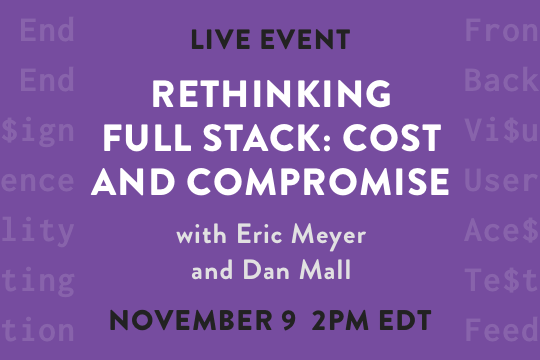
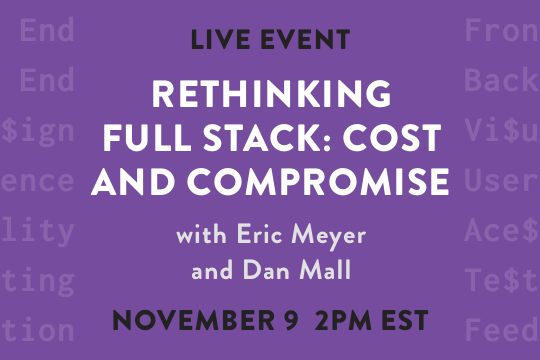
Update EDT to EST
Time change is this weekend.

Changed region(s): [[0.1778, 0.8556, 0.8, 0.9167]]

diff --git a/gym-emails/rethinking-full-stack-live-event-email/comp-guide.html b/gym-emails/rethinking-full-stack-live-event-email/comp-guide.html
@@ -5,13 +5,13 @@
 <meta http-equiv="x-ua-compatible" content="ie=edge">
 <meta name="viewport" content="width=device-width, initial-scale=1">
 <meta name="format-detection" content="telephone=no">
-<title>Hey, Have We Met Before?</title>
+<title>When the full stack just isn't enough...</title>
 <meta name="author" content="Aquent Gymnasium">
 </head>
 <body bgcolor="#ebebeb" style="width: 100%; font-family: sans-serif; font-size: 100%; background-color: #ebebeb; padding: 0; margin: 0; -ms-text-size-adjust: none; -webkit-text-size-adjust: none;">
 
 <!-- preheader text START -->
-<div class="preheader-text" style="display: none !important; font-family: sans-serif; font-size: 1px; line-height: 1px; color: #ebebeb; text-align: center; max-height: 0; max-width: 0; padding: 0; margin: 0; opacity: 0; overflow: hidden; mso-hide: all;">Free Online Courses. (Woo!)</div>
+<div class="preheader-text" style="display: none !important; font-family: sans-serif; font-size: 1px; line-height: 1px; color: #ebebeb; text-align: center; max-height: 0; max-width: 0; padding: 0; margin: 0; opacity: 0; overflow: hidden; mso-hide: all;">Webinar featuring Eric Meyer and Dan Mall.</div>
 <!-- preheader text END -->
 
 <style>
@@ -56,33 +56,30 @@ table td {padding: 0;}
           <td width="5%" style="padding: 0;"></td>
           <td width="540" align="left" valign="top" style="padding: 21px 0;">
           <h2 style="font-family: 'Helvetica Neue', Helvetica, Arial, 'Droid Sans', sans-serif; font-weight: normal; font-size: 24px; color: #222222; line-height: 28px; padding: 0; margin: 0;">Hi <span class="eloquaemail">Firstname</span>,</h2>
-          <div class="leading-11" style="font-family: Courier, monospace; font-size: 11px; line-height: 11px; padding: 0; margin: 0;"><br></div>
-          <p style="font-family: 'Helvetica Neue', Helvetica, Arial, 'Droid Sans', sans-serif; font-weight: normal; font-size: 16px; line-height: 24px; color: #222222; padding: 0; margin: 0;">We&#8217;re Aquent Gymnasium <img alt="Hello" width="32" height="32" src="https://emojipedia-us.s3.amazonaws.com/thumbs/120/apple/96/waving-hand-sign_1f44b.png" style="display: inline; vertical-align: bottom; border: 0; -ms-interpolation-mode: bicubic;"></p>
           <div class="leading-15" style="font-family: Courier, monospace; font-size: 15px; line-height: 15px; padding: 0; margin: 0;"><br></div>
-          <p style="font-family: 'Helvetica Neue', Helvetica, Arial, 'Droid Sans', sans-serif; font-weight: normal; font-size: 16px; line-height: 24px; color: #222222; padding: 0; margin: 0;">Survey results show that most Aquent / <span style="white-space: nowrap;">Vitamin T</span> talent don&#8217;t know us. <span style="white-space: nowrap;">But they</span> want to. So, allow us to reintroduce ourselves.</p>
+          <p style="font-family: 'Helvetica Neue', Helvetica, Arial, 'Droid Sans', sans-serif; font-weight: normal; font-size: 16px; line-height: 24px; color: #222222; padding: 0; margin: 0;">Join us for a webinar on the difference between front end and full stack developers, as well as the value each brings to an organization.</p>
+          <div class="leading-21" style="font-family: monospace, monospace; font-size: 21px; line-height: 21px; padding: 0; margin: 0;"><br></div>
+          <a href="https://gymnasium.github.io/cms/events/rethinking_full_stack/?utm_source=eloqua&utm_medium=email&utm_campaign=AQ_NA_GYM-webinar&utm_content=10-31-17-rethinking-full-stack" target="_blank" title="Learn More" style="display: block; text-decoration: none; cursor: pointer;">
+           <img alt="Rethinking Full Stack: Cost and Compromise" src="img/rethinking-full-stack-email-banner-540w.png" width="540" style="display: block; font-family: 'Helvetica Neue', Helvetica, Arial, 'Droid Sans', sans-serif; font-size: 26px; font-weight: bold; color: #222222; letter-spacing: 1px; text-transform: uppercase; vertical-align: middle; width: auto; max-width: 100%; height: auto; border: 1px solid #f8971d; -ms-interpolation-mode: bicubic;">
+          </a>
+          <div class="leading-21" style="font-family: monospace, monospace; font-size: 21px; line-height: 21px; padding: 0; margin: 0;"><br></div>
+          <p style="font-family: 'Helvetica Neue', Helvetica, Arial, 'Droid Sans', sans-serif; font-weight: normal; font-size: 16px; line-height: 24px; color: #222222; padding: 0; margin: 0;">Learn why hiring a one-size-fits-all developer can be a benefit, as well as a hidden cost and compromise to your company and clients.</p>
           <div class="leading-15" style="font-family: Courier, monospace; font-size: 15px; line-height: 15px; padding: 0; margin: 0;"><br></div>
-          <p style="font-family: 'Helvetica Neue', Helvetica, Arial, 'Droid Sans', sans-serif; font-weight: normal; font-size: 16px; line-height: 24px; color: #222222; padding: 0; margin: 0;">Gymnasium builds <strong stle="font-weight: bold;">free</strong> online courses taught by industry experts in the web community on web development, design, user experience, and content. Our courses are designed to empower you to learn at your <span style="white-space: nowrap;">own speed</span>.</p>
+          <p style="font-family: 'Helvetica Neue', Helvetica, Arial, 'Droid Sans', sans-serif; font-weight: normal; font-size: 16px; line-height: 24px; color: #222222; padding: 0; margin: 0;"><b style="font-weight: bold;">Eric Meyer</b>, web pioneer and author, and <b style="font-weight: bold;">Dan Mall</b>, founder and director of design collaborative SuperFriendly will join us to discuss why one size doesn&#8217;t always fit all.</p>
           <div class="leading-15" style="font-family: Courier, monospace; font-size: 15px; line-height: 15px; padding: 0; margin: 0;"><br></div>
-          <p style="font-family: 'Helvetica Neue', Helvetica, Arial, 'Droid Sans', sans-serif; font-weight: normal; font-size: 16px; line-height: 24px; color: #222222; padding: 0; margin: 0;">
-          It&#8217;s a great way to keep your skills current, or even a chance to learn something completely new!</p>
-          <div class="leading-15" style="font-family: Courier, monospace; font-size: 15px; line-height: 15px; padding: 0; margin: 0;"><br></div>
-          <p style="font-family: 'Helvetica Neue', Helvetica, Arial, 'Droid Sans', sans-serif; font-weight: normal; font-size: 16px; line-height: 24px; color: #222222; padding: 0; margin: 0;">If you&#8217;re looking to develop your portfolio, you&#8217;ll be happy to know that our course projects make a meaningful contribution. <i>We&#8217;ve heard it straight from our clients.</i></p>
-          <div class="leading-15" style="font-family: Courier, monospace; font-size: 15px; line-height: 15px; padding: 0; margin: 0;"><br></div>
-          <p style="font-family: 'Helvetica Neue', Helvetica, Arial, 'Droid Sans', sans-serif; font-weight: normal; font-size: 16px; line-height: 24px; color: #222222; padding: 0; margin: 0;">Now that we&#8217;ve officially met, we&#8217;ll be in touch about new courses, blog posts, and live events that match your interests.</p>
-          <div class="leading-15" style="font-family: Courier, monospace; font-size: 15px; line-height: 15px; padding: 0; margin: 0;"><br></div>
-          <p style="font-family: 'Helvetica Neue', Helvetica, Arial, 'Droid Sans', sans-serif; font-weight: normal; font-size: 16px; line-height: 24px; color: #222222; padding: 0; margin: 0;">In the meantime&#8230;</p>
+          <p style="font-family: 'Helvetica Neue', Helvetica, Arial, 'Droid Sans', sans-serif; font-weight: normal; font-size: 16px; line-height: 24px; color: #222222; padding: 0; margin: 0;"><b style="font-weight: bold;"><a href="https://gymnasium.github.io/cms/events/rethinking_full_stack/?utm_source=eloqua&utm_medium=email&utm_campaign=AQ_NA_GYM-webinar&utm_content=10-31-17-rethinking-full-stack" target="_blank" title="Jump In" style="color: #f8971d !important; text-decoration: underline !important;">Rethinking Full Stack: Cost and Compromise</a></b> premieres November 9 <span style="white-space: nowrap;">at 2PM EST</span>.</p>
           <table class="cta" width="100%" align="center" cellpadding="0" cellspacing="0" border="0" bgcolor="#fffffe" style="background-color: #fffffe; border-spacing: 0;">
             <tr>
               <td width="100%" align="center" valign="top" style="padding: 23px 0 21px;">
                 <table border="0" cellspacing="0" cellpadding="0" style="border-spacing: 0;">
                   <tr>
                     <td class="cta-btn" align="center" valign="top" bgcolor="#f8971d" style="background-color: #f8971d; padding: 0; border-radius: 2px;">
-                      <a href="https://thegymnasium.com/?utm_source=eloqua&utm_medium=email&utm_campaign=AQ_NA_GYM&utm_content=10-30-17-talent-reintro" title="Opportunity Awaits" target="_blank" style="display: inline-block; line-height: 19px; color: #fffffe; text-decoration: none; outline: 0; cursor: pointer;">
+                      <a href="https://gymnasium.github.io/cms/events/rethinking_full_stack/?utm_source=eloqua&utm_medium=email&utm_campaign=AQ_NA_GYM-webinar&utm_content=10-31-17-rethinking-full-stack" title="Rethinking Full Stack" target="_blank" style="display: inline-block; line-height: 19px; color: #fffffe; text-decoration: none; outline: 0; cursor: pointer;">
                         <span class="chunky-nbsp;" style="font-size: 15px; line-height: 15px; font-family: Courier, monospace; ">&nbsp;</span>
                            <div style="line-height: 16px; margin: 0 64px;">
-                            <strong style="font-weight: bold; font-size: 20px; line-height: 26px; font-family: 'Helvetica Neue', Helvetica, Arial, 'Droid Sans', sans-serif; color: #fffffe; vertical-align: 4px;">Sign Up</strong>
+                            <strong style="font-weight: bold; font-size: 20px; line-height: 26px; font-family: 'Helvetica Neue', Helvetica, Arial, 'Droid Sans', sans-serif; color: #fffffe; vertical-align: middle;">Sign Up to Attend</strong>
                           </div>
-                        <span class="chunky-nbsp;" style="font-size: 15px; line-height: 15px; font-family: Courier, monospace; ">&nbsp;</span>
+                        <span class="chunky-nbsp;" style="font-size: 21px; line-height: 21px; font-family: Courier, monospace; ">&nbsp;</span>
                       </a>
                     </td>
                   </tr>
@@ -90,7 +87,7 @@ table td {padding: 0;}
               </td>
             </tr>
           </table>
-          <p style="font-family: 'Helvetica Neue', Helvetica, Arial, 'Droid Sans', sans-serif; font-weight: normal; font-size: 16px; line-height: 24px; color: #222222; padding: 0; margin: 0;">Happy learning!</p>
+          <p style="font-family: 'Helvetica Neue', Helvetica, Arial, 'Droid Sans', sans-serif; font-weight: normal; font-size: 16px; line-height: 24px; color: #222222; padding: 0; margin: 0;">See you then!</p>
           <div class="leading-3" style="font-family: Courier, monospace; font-size: 3px; line-height: 3px; padding: 0; margin: 0;"><br></div>
           <p style="font-family: 'Helvetica Neue', Helvetica, Arial, 'Droid Sans', sans-serif; font-weight: normal; font-size: 16px; line-height: 24px; color: #222222; padding: 0; margin: 0;">&#8212;The Gymnasium Team</p>
           </td>

diff --git a/gym-emails/rethinking-full-stack-live-event-email/index.html b/gym-emails/rethinking-full-stack-live-event-email/index.html
@@ -67,7 +67,7 @@ table td {padding: 0;}
           <div class="leading-15" style="font-family: Courier, monospace; font-size: 15px; line-height: 15px; padding: 0; margin: 0;"><br></div>
           <p style="font-family: 'Helvetica Neue', Helvetica, Arial, 'Droid Sans', sans-serif; font-weight: normal; font-size: 16px; line-height: 24px; color: #222222; padding: 0; margin: 0;"><b style="font-weight: bold;">Eric Meyer</b>, web pioneer and author, and <b style="font-weight: bold;">Dan Mall</b>, founder and director of design collaborative SuperFriendly will join us to discuss why one size doesn&#8217;t always fit all.</p>
           <div class="leading-15" style="font-family: Courier, monospace; font-size: 15px; line-height: 15px; padding: 0; margin: 0;"><br></div>
-          <p style="font-family: 'Helvetica Neue', Helvetica, Arial, 'Droid Sans', sans-serif; font-weight: normal; font-size: 16px; line-height: 24px; color: #222222; padding: 0; margin: 0;"><b style="font-weight: bold;"><a href="https://gymnasium.github.io/cms/events/rethinking_full_stack/?utm_source=eloqua&utm_medium=email&utm_campaign=AQ_NA_GYM-webinar&utm_content=10-31-17-rethinking-full-stack" target="_blank" title="Jump In" style="color: #f8971d !important; text-decoration: underline !important;">Rethinking Full Stack: Cost and Compromise</a></b> premieres November 9 <span style="white-space: nowrap;">at 2PM EDT</span>.</p>
+          <p style="font-family: 'Helvetica Neue', Helvetica, Arial, 'Droid Sans', sans-serif; font-weight: normal; font-size: 16px; line-height: 24px; color: #222222; padding: 0; margin: 0;"><b style="font-weight: bold;"><a href="https://gymnasium.github.io/cms/events/rethinking_full_stack/?utm_source=eloqua&utm_medium=email&utm_campaign=AQ_NA_GYM-webinar&utm_content=10-31-17-rethinking-full-stack" target="_blank" title="Jump In" style="color: #f8971d !important; text-decoration: underline !important;">Rethinking Full Stack: Cost and Compromise</a></b> premieres November 9 <span style="white-space: nowrap;">at 2PM EST</span>.</p>
           <table class="cta" width="100%" align="center" cellpadding="0" cellspacing="0" border="0" bgcolor="#fffffe" style="background-color: #fffffe; border-spacing: 0;">
             <tr>
               <td width="100%" align="center" valign="top" style="padding: 23px 0 21px;">
